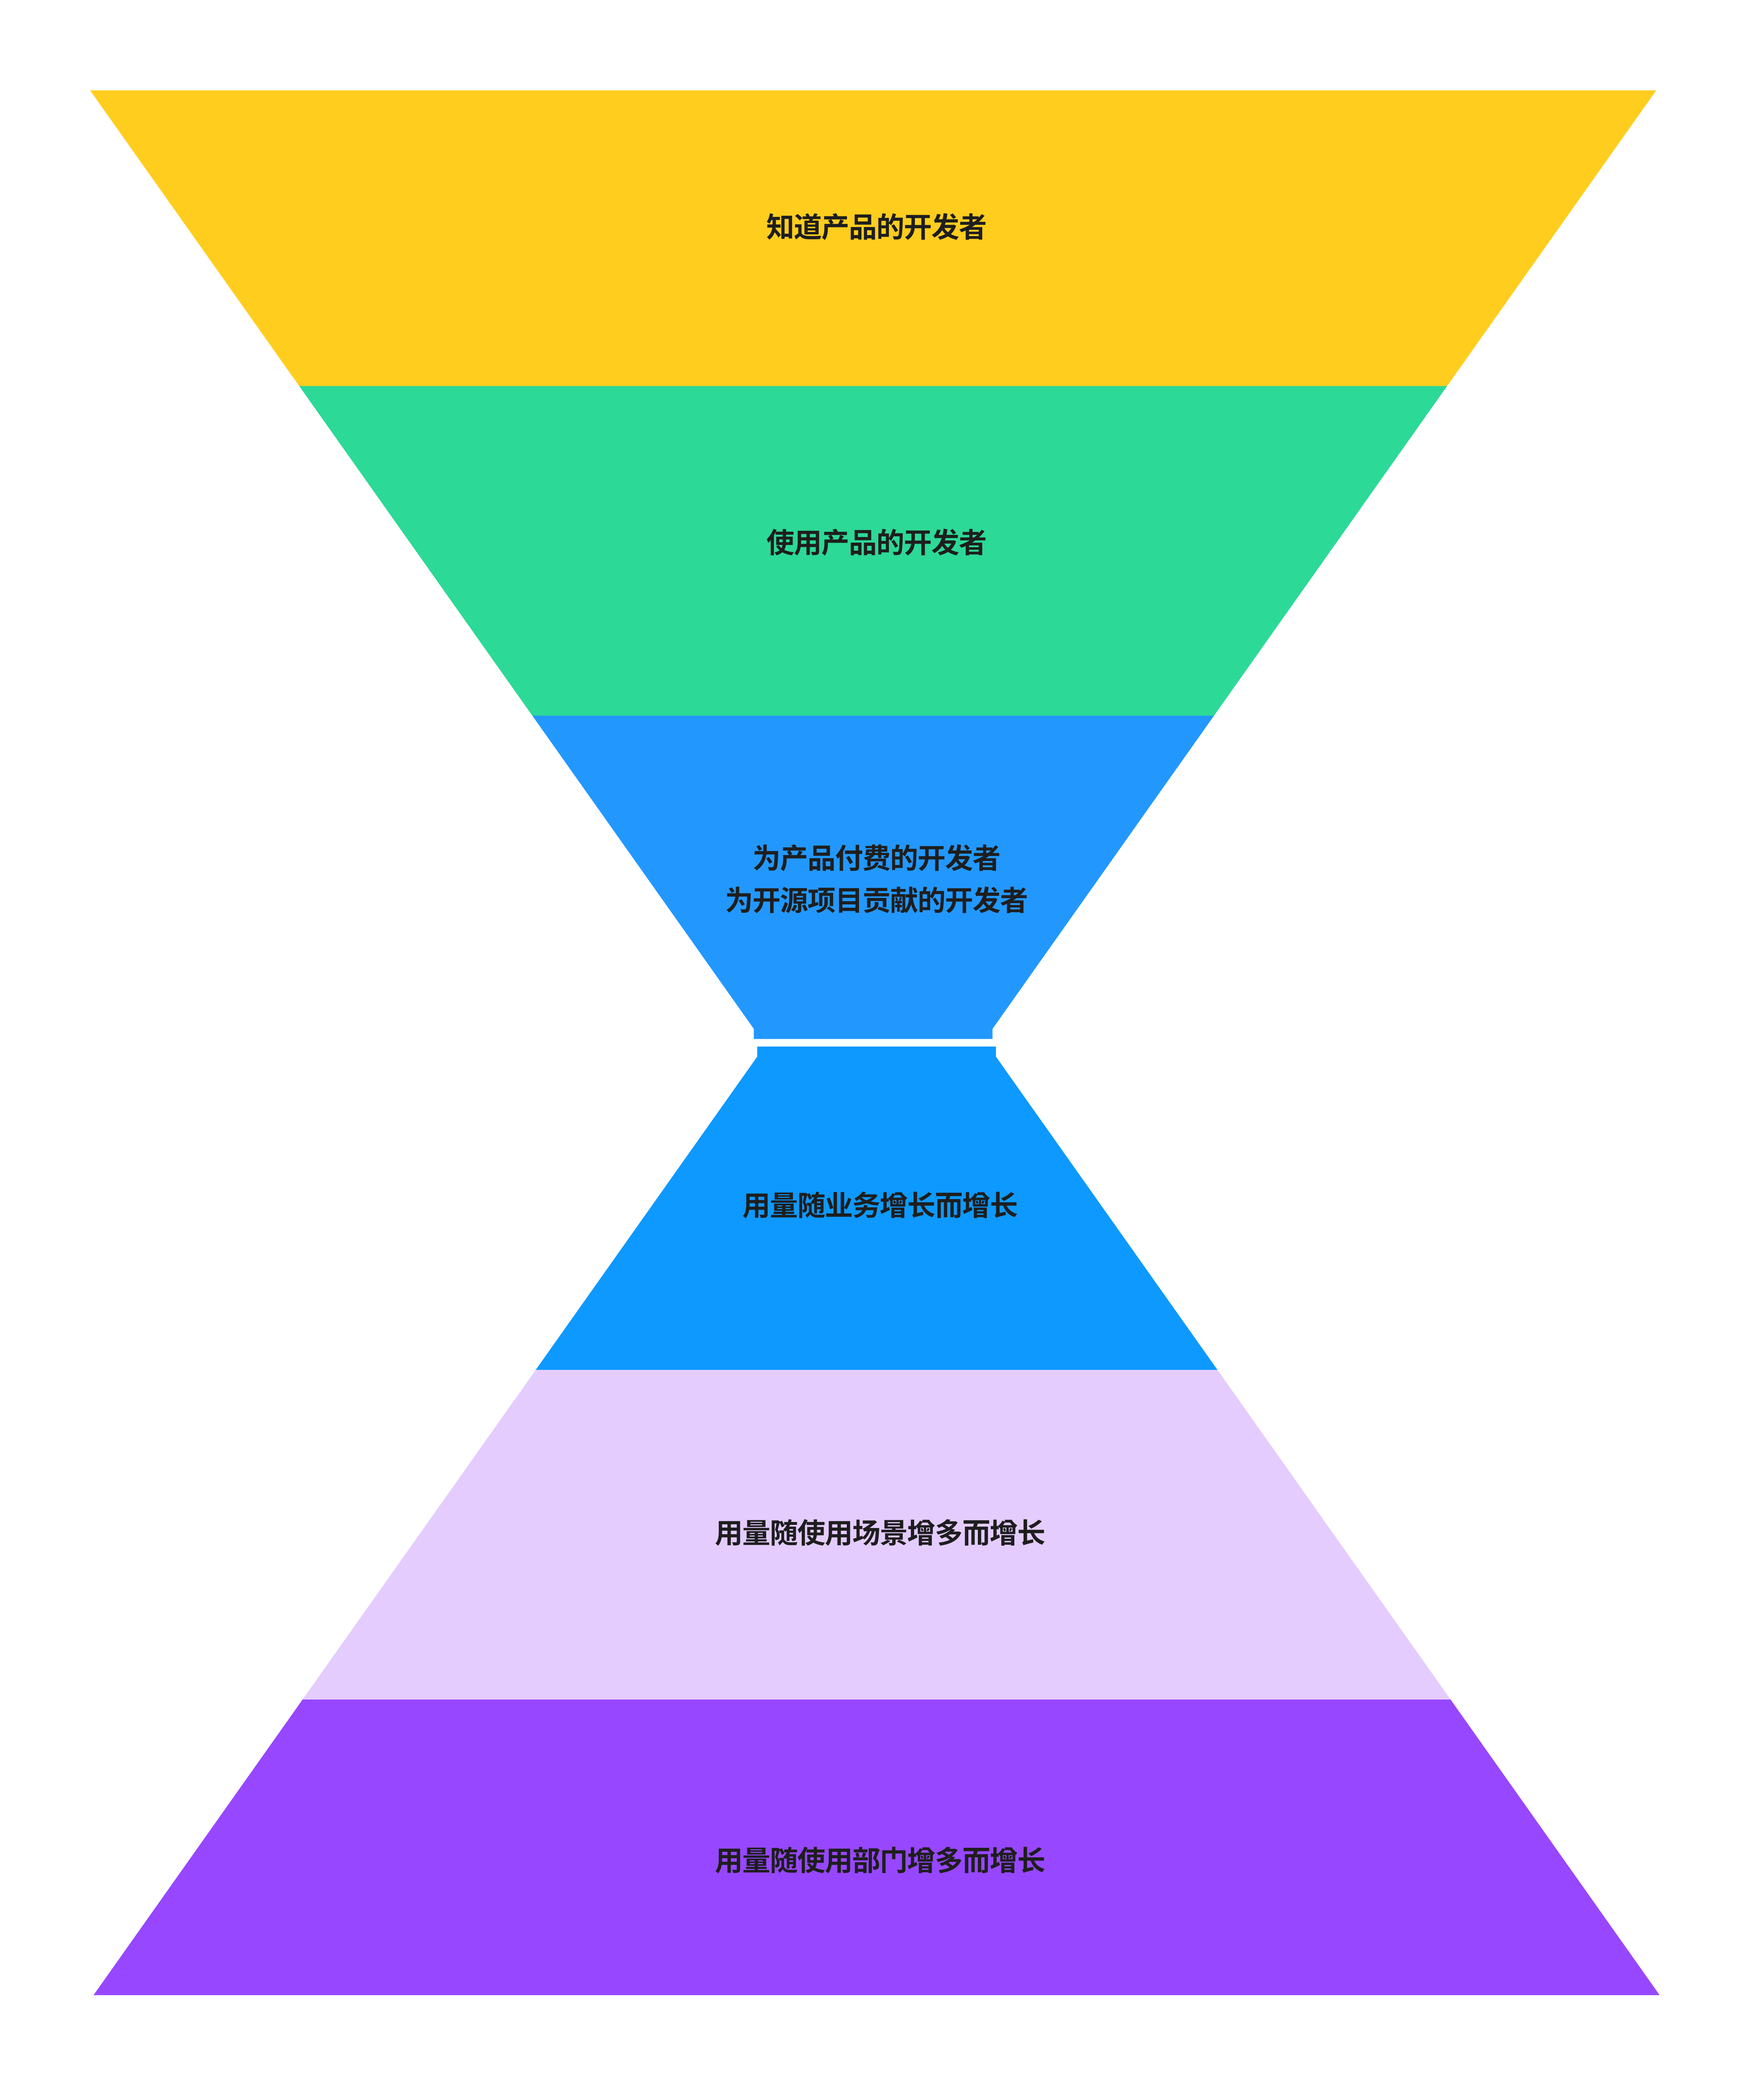
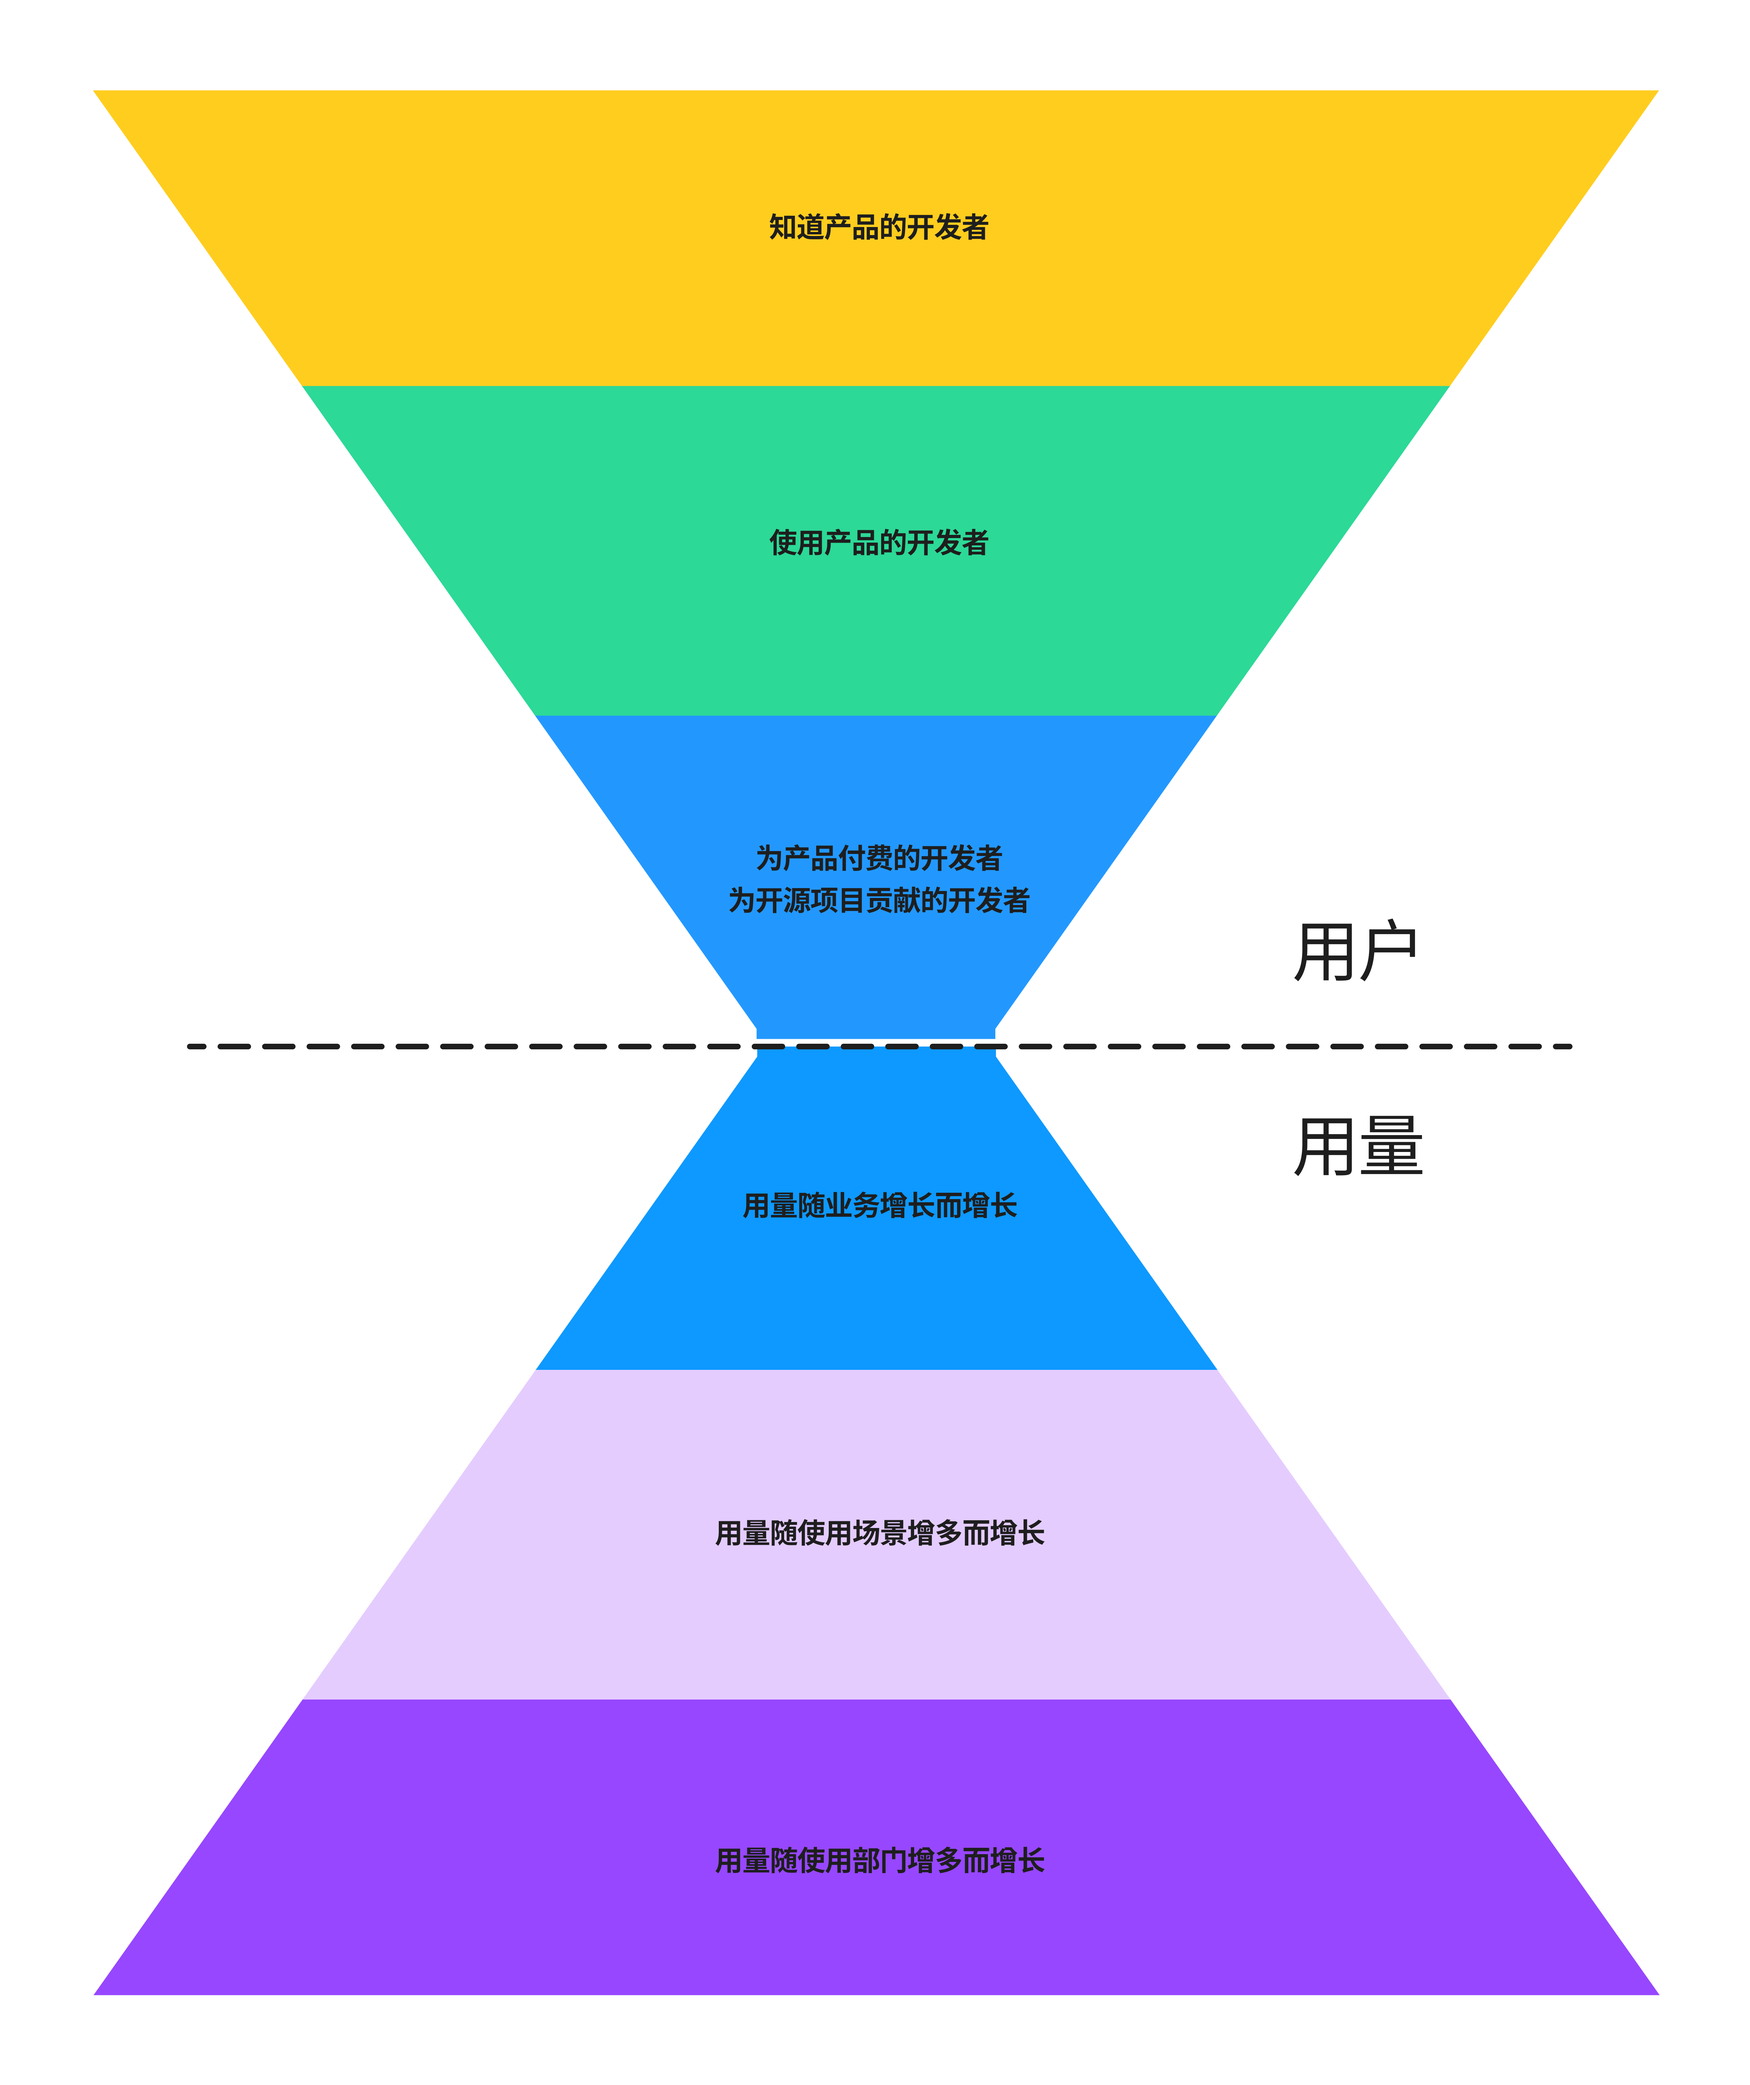
Upload pictures

diff --git a/what-is-community/community-mission.md b/what-is-community/community-mission.md
@@ -46,8 +46,11 @@ dateCreated: 2023-05-25T05:35:20.349Z
 
 ## 开发者社区的基本模型
 
-社区中的
+把社区中用户的分布，与资源用量结合起来看，我们会得到一个哑铃式的模型。很像是一块定胜糕的造型。
 
 ![community_model.png](/pic/community_model.png)
 
+这个模型直观的说明了开发者社区的重要性：
 
+- 销售前：沉淀，分层，转化用户为客户
+- 销售后：持续帮助客户，从而扩大客户对产品的使用量
